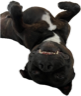
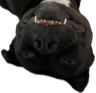
Crop cursor to the dog's head

diff --git a/index.html b/index.html
@@ -10,7 +10,7 @@
       align-items: center;
       justify-content: center;
       font-family: system-ui, sans-serif;
-      cursor: url("dog-cursor.png") 40 48, auto;
+      cursor: url("dog-cursor.png") 48 47, auto;
       /* InDesign-style colour ramp: hues left to right, white at the top, black at the bottom */
       background:
         linear-gradient(to bottom, #fff 0%, rgba(255,255,255,0) 50%, rgba(0,0,0,0) 50%, #000 100%),
